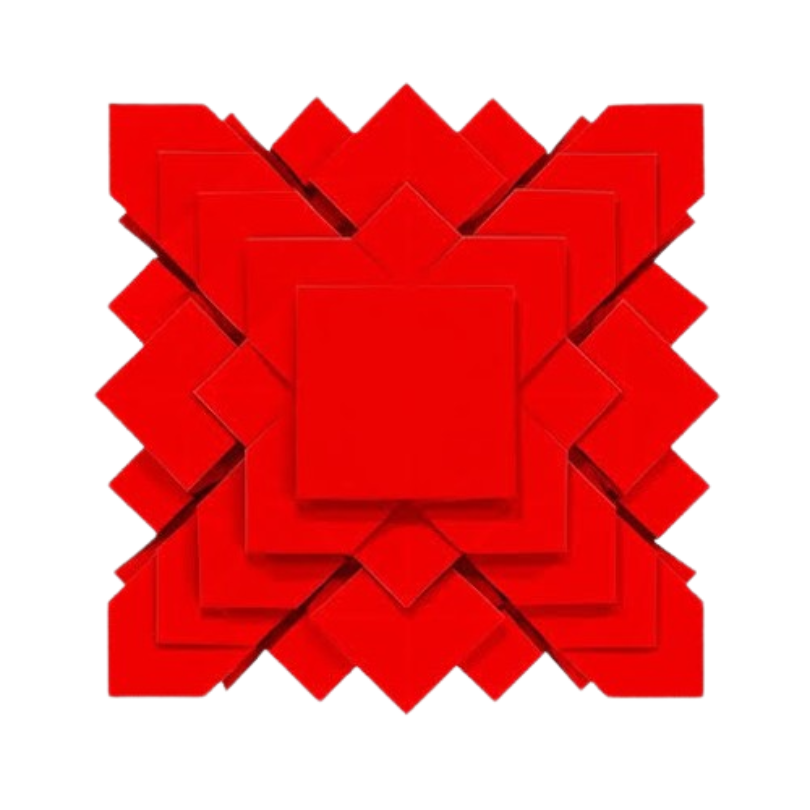
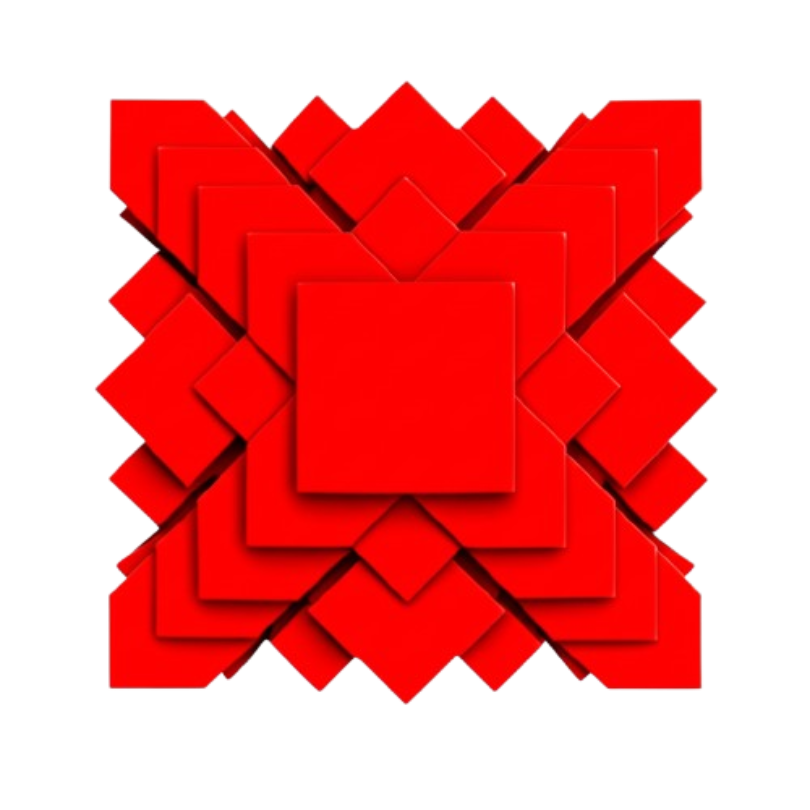
initial day 1

diff --git a/index.html b/index.html
@@ -4,7 +4,7 @@
     <meta charset="UTF-8">
     <meta name="viewport" content="width=device-width, initial-scale=1.0">
     <title>Viget Vuong - Mechanical Engineering Student</title>
-    <link href="https://fonts.googleapis.com/css2?family=Roboto:wght@400;700&display=swap" rel="stylesheet">
+    <link href="https://fonts.googleapis.com/css2?family=Roboto:wght@400;700&family=Delius&family=DM+Serif+Text&display=swap" rel="stylesheet">
     <style>
         :root {
             --primary-color: #800000; /* Maroon */
@@ -188,9 +188,73 @@
         }
 
         .spin-image {
-            animation: spin 3s linear infinite;
+            animation: spin 14s linear infinite;
             display: block;
+            position: relative;
+            z-index: 10;
+            filter: brightness(1.18) grayscale(0.08);
         }
+        .spin-image.shadow1 {
+            position: absolute;
+            left: 0;
+            top: 0;
+            z-index: 1;
+            opacity: 0.45;
+            filter: brightness(2.2) sepia(0.2) saturate(2) hue-rotate(-10deg) blur(0.3px);
+            animation: spin 14s linear infinite;
+            animation-delay: 0.1s;
+        }
+        .spin-image.shadow2 {
+            position: absolute;
+            left: 0;
+            top: 0;
+            z-index: 2;
+            opacity: 0.35;
+            filter: brightness(2.7) sepia(0.15) saturate(2.2) hue-rotate(-10deg) blur(0.25px);
+            animation: spin 14s linear infinite;
+            animation-delay: 0.2s;
+        }
+        .spin-image.shadow3 {
+            position: absolute;
+            left: 0;
+            top: 0;
+            z-index: 3;
+            opacity: 0.28;
+            filter: brightness(3.0) sepia(0.12) saturate(2.1) hue-rotate(-10deg) blur(0.2px);
+            animation: spin 14s linear infinite;
+            animation-delay: 0.3s;
+        }
+        .spin-image.shadow4 {
+            position: absolute;
+            left: 0;
+            top: 0;
+            z-index: 4;
+            opacity: 0.22;
+            filter: brightness(3.3) sepia(0.10) saturate(2.0) hue-rotate(-10deg) blur(0.15px);
+            animation: spin 14s linear infinite;
+            animation-delay: 0.4s;
+        }
+        .spin-image.shadow5 {
+            position: absolute;
+            left: 0;
+            top: 0;
+            z-index: 5;
+            opacity: 0.16;
+            filter: brightness(3.6) sepia(0.08) saturate(1.9) hue-rotate(-10deg) blur(0.1px);
+            animation: spin 14s linear infinite;
+            animation-delay: 0.5s;
+        }
+        .spin-image.shadow6 {
+            position: absolute;
+            left: 0;
+            top: 0;
+            z-index: 6;
+            opacity: 0.12;
+            filter: brightness(3.9) sepia(0.06) saturate(1.8) hue-rotate(-10deg) blur(0.05px);
+            animation: spin 14s linear infinite;
+            animation-delay: 0.6s;
+        }
+        
         @keyframes spin {
             0% { transform: rotate(0deg); }
             100% { transform: rotate(360deg); }
@@ -225,15 +289,7 @@
 </head>
 <body>
 
-    <header>
-        <div class="container">
-            <h1>Viget Vuong</h1>
-            <p>Mechanical Engineering Student | UC Riverside</p>
-            <p>Passionate about origami, race cars, SolidWorks, table tennis, running, and French horn.</p>
-        </div>
-    </header>
-
-    <nav>
+    <nav style="position: relative; z-index: 100;">
         <div class="container">
             <a href="#about">About</a>
             <a href="#projects">Projects & Activities</a>
@@ -242,10 +298,32 @@
         </div>
     </nav>
 
+    <section id="hero-maroon" style="width: 100vw; height: 100vh; min-height: 500px; background: #4B0000; display: flex; align-items: center; justify-content: center;">
+        <div style="display: flex; flex-direction: column; align-items: center;">
+            <span style="color: #fff; font-family: 'DM Serif Text', serif, Arial, sans-serif; font-size: 2.5rem; font-weight: normal; letter-spacing: normal; text-shadow: none; filter: none;">Viget</span>
+            <span style="margin-top: 0.5rem; color: #f8eaea; font-family: 'DM Serif Text', serif, Arial, sans-serif; font-size: 1.15rem; font-style: italic; letter-spacing: 0.04em;">Florere, valere, aut vigorem habere</span>
+            <span style="margin-top: 0.2rem; color: #e0bfbf; font-family: 'Roboto', serif, Arial, sans-serif; font-size: 0.98rem; font-style: normal; letter-spacing: 0.01em;">To flourish, to be strong, or to have vigor</span>
+        </div>
+    </section>
+
+    <header>
+        <div class="container">
+            <h1>Viget Vuong</h1>
+            <p>Mechanical Engineering Student | UC Riverside</p>
+            <p>Passionate about origami, race cars, SolidWorks, table tennis, running, and French horn.</p>
+        </div>
+    </header>
+
     <section id="about" class="section">
         <div class="container">
-            <div style="display: flex; flex-direction: column; align-items: center;">
-                <img src="image.png" alt="Viget Vuong" class="spin-image" style="width:180px; height:180px; margin-bottom: 24px;" />
+            <div style="display: flex; flex-direction: column; align-items: center; position: relative; width: 320px; height: 320px; margin: 0 auto 24px auto;">
+                <img src="image.png" alt="shadow1" class="spin-image shadow1" style="width:320px; height:320px;" />
+                <img src="image.png" alt="shadow2" class="spin-image shadow2" style="width:320px; height:320px;" />
+                <img src="image.png" alt="shadow3" class="spin-image shadow3" style="width:320px; height:320px;" />
+                <img src="image.png" alt="shadow4" class="spin-image shadow4" style="width:320px; height:320px;" />
+                <img src="image.png" alt="shadow5" class="spin-image shadow5" style="width:320px; height:320px;" />
+                <img src="image.png" alt="shadow6" class="spin-image shadow6" style="width:320px; height:320px;" />
+                <img src="image.png" alt="Viget Vuong" class="spin-image" style="width:320px; height:320px;" />
             </div>
             <h2>About Me</h2>
             <div class="card">
